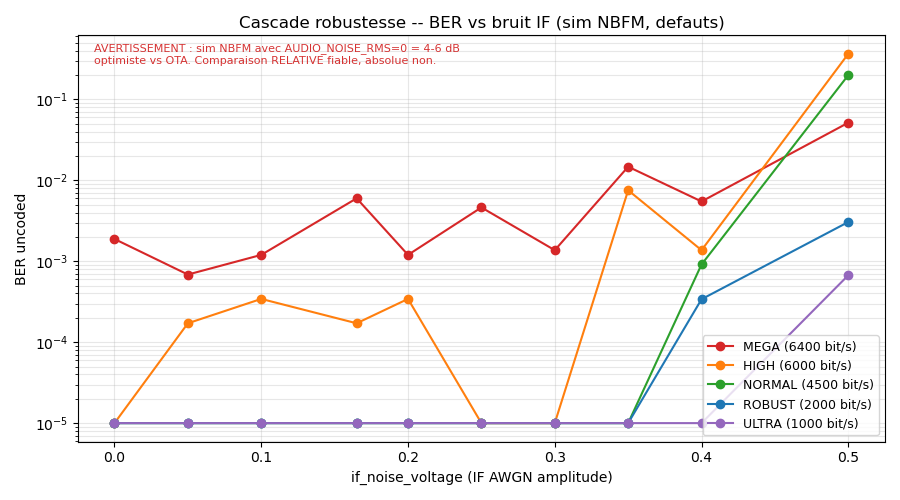
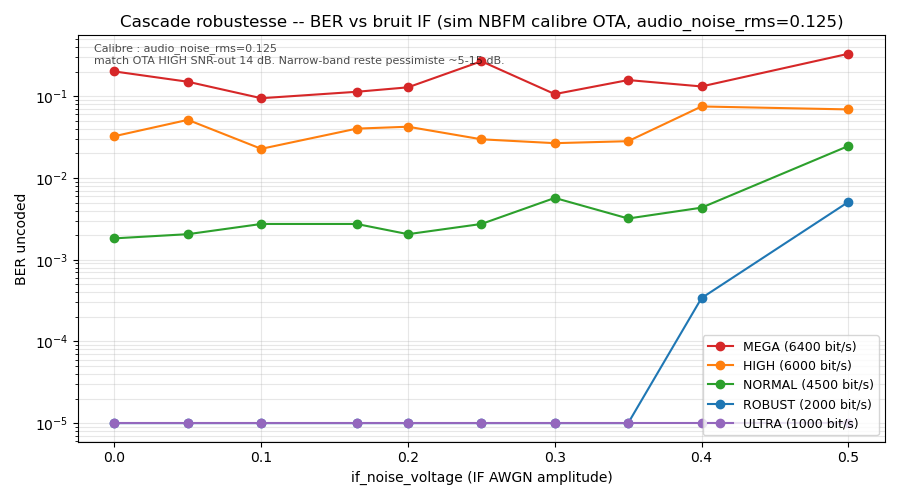
Sim calibre OTA + etude multipath IF-level
Calibration simulateur
----------------------
audio_noise_rms=0.125 match OTA HIGH SNR-out 14 dB (mesure sur
result2_cascade_ota.wav, cette nuit). Le sim etait optimiste de ~8 dB
pour wideband (Rs=1500) avec defaut 0.0. Cette calibration reproduit
le SNR effectif vu en FSE sortie pour les profils wideband.

Limite : reste pessimiste de 5-15 dB pour narrow-band (ROBUST, ULTRA)
car le bruit NBFM reel n'est pas flat en frequence (parabolique f2 ou
autre) alors que audio_noise_rms flat. Acceptable : les narrow-band sim
sont cote sur (si sim dit OK, OTA confirmera).

apsk16_cascade_comparison.py utilise maintenant audio_noise_rms=0.125
par defaut. Resultats calibres montrent la realite : HIGH BER 3 % sans
bruit IF (limit LDPC 1/2), NORMAL 0.2 %, ROBUST/ULTRA 0 %.

Multipath IF-level
------------------
Ajout dans nbfm_channel_sim.simulate() d'un parametre multipath_paths
= liste de (delay_s, amp_dB, phase_rad). Injection AU NIVEAU IF
(apres nbfm_tx, avant nbfm_rx) via gnuradio blocks.delay +
multiply_const_cc + add_cc. Modelise correctement :
 - ISI lineaire RF
 - Rotation de phase statique
 - Effet de capture FM non-lineaire (si echos niveaux voisins)

study/apsk16_multipath_study.py : etude comparative 5 profils vs
6 scenarios multipath (no_echo, faint_far -10 dB 500 us, moderate
-6 dB 200 us, strong_near -3 dB 100 us, capture_hostile -1 dB 200 us,
dual_echo 2 echos).

Resultats (sim calibre, audio_noise_rms=0.125) :
[…]

diff --git a/study/apsk16_multipath_study.py b/study/apsk16_multipath_study.py
@@ -1,0 +1,171 @@
+"""
+Etude multipath : effet de la reception indirecte (echos RF) sur les 5
+profils cascade (MEGA/HIGH/NORMAL/ROBUST/ULTRA).
+
+Multipath injecte AU NIVEAU IF dans nbfm_channel_sim (apres nbfm_tx, avant
+nbfm_rx) -> modele la vraie physique RF (pas audio-domain). Les effets
+incluent : ISI lineaire, rotation de phase statique ET effet de capture
+FM non-lineaire (bascule demod FM si echos de niveaux voisins).
+
+Scenarios testes (par ordre croissant de severite) :
+ - no_echo : reference
+ - faint_far : delay 500 us, -10 dB  (reflection lointaine faible)
+ - moderate  : delay 200 us, -6 dB   (reflection batiment proche)
+ - strong_near : delay 100 us, -3 dB (reflection tres proche)
+ - capture_hostile : delay 200 us, -1 dB (co-canal / effet capture limite)
+
+Simulation calibree OTA (audio_noise_rms=0.125).
+
+Usage : /c/Users/tous/radioconda/python.exe study/apsk16_multipath_study.py
+"""
+
+import os
+import sys
+import json
+import numpy as np
+import matplotlib
+matplotlib.use("Agg")
+import matplotlib.pyplot as plt
+
+sys.path.insert(0, os.path.dirname(os.path.abspath(__file__)))
+from modem_apsk16_ftn_bench import (
+    MOD_QPSK, MOD_8PSK, MOD_16APSK,
+    build_tx, run_full_chain,
+)
+
+
+CALIBRATED_AUDIO_NOISE_RMS = 0.125
+
+PROFILES = [
+    dict(name="MEGA",   rs=1500.0, beta=0.20, tau=30/32, mod=MOD_16APSK,
+         debit=6400, color="#d62728"),
+    dict(name="HIGH",   rs=1500.0, beta=0.20, tau=1.0,   mod=MOD_16APSK,
+         debit=6000, color="#ff7f0e"),
+    dict(name="NORMAL", rs=1500.0, beta=0.20, tau=1.0,   mod=MOD_8PSK,
+         debit=4500, color="#2ca02c"),
+    dict(name="ROBUST", rs=1000.0, beta=0.25, tau=1.0,   mod=MOD_QPSK,
+         debit=2000, color="#1f77b4"),
+    dict(name="ULTRA",  rs=500.0,  beta=0.25, tau=1.0,   mod=MOD_QPSK,
+         debit=1000, color="#9467bd"),
+]
+
+# Chaque scenario : (nom, liste de paths)
+# path = (delay_s, amp_dB, phase_rad). Phase au choix (arbitraire).
+SCENARIOS = [
+    ("no_echo",          [(0.0, 0.0, 0.0)]),
+    ("faint_far",        [(0.0, 0.0, 0.0), (500e-6, -10.0, 1.2)]),
+    ("moderate",         [(0.0, 0.0, 0.0), (200e-6, -6.0,  2.3)]),
+    ("strong_near",      [(0.0, 0.0, 0.0), (100e-6, -3.0,  0.7)]),
+    ("capture_hostile",  [(0.0, 0.0, 0.0), (200e-6, -1.0,  1.7)]),
+    ("dual_echo",        [(0.0, 0.0, 0.0),
+                          (150e-6, -6.0, 0.5),
+                          (400e-6, -9.0, 2.1)]),
+]
+
+N_DATA_SYMBOLS = 1500
+RNG_BASE = 3000
+OUT_DIR = os.path.join(os.path.dirname(os.path.abspath(__file__)),
+                       "..", "results", "apsk16_ftn", "multipath")
+os.makedirs(OUT_DIR, exist_ok=True)
+
+
+def main():
+    csv_path = os.path.join(OUT_DIR, "multipath.csv")
+    with open(csv_path, "w", encoding="utf-8") as f:
+        f.write("profile,scenario,rs,beta,tau,mod,ber,gmi,gmi_max,evm,snr_db\n")
+
+    results = {}
+    for prof in PROFILES:
+        print(f"\n=== Profil {prof['name']} ===")
+        prof_res = []
+        for scen_name, paths in SCENARIOS:
+            mod = prof["mod"]()
+            rng = np.random.default_rng(RNG_BASE + hash(scen_name) % 1000)
+            tx = build_tx(prof["rs"], prof["beta"], prof["tau"], mod,
+                          n_data_symbols=N_DATA_SYMBOLS, rng=rng)
+            try:
+                r = run_full_chain(tx, mod, if_noise_voltage=0.0,
+                                   rng_seed=42,
+                                   channel_kwargs={
+                                       "start_delay_s": 0.0,
+                                       "audio_noise_rms": CALIBRATED_AUDIO_NOISE_RMS,
+                                       "multipath_paths": paths,
+                                   })
+                ber = r["ber_uncoded"] or 0.0
+                gmi = r["gmi"] if r["gmi"] is not None else float("nan")
+                evm = r["evm_rms"] or 0.0
+                sigma2 = r["sigma2"]
+                snr = 10.0 * np.log10(1.0 / sigma2) if sigma2 > 0 else float("inf")
+                prof_res.append(dict(scenario=scen_name, ber=ber, gmi=gmi,
+                                     evm=evm, snr_db=snr,
+                                     gmi_max=mod.bits_per_sym))
+                print(f"  {scen_name:>17}: BER={ber:.4f} "
+                      f"GMI={gmi:.3f}/{mod.bits_per_sym} "
+                      f"SNR={snr:.2f} dB")
+                with open(csv_path, "a", encoding="utf-8") as f:
+                    f.write(f"{prof['name']},{scen_name},{prof['rs']},"
+                            f"{prof['beta']},{prof['tau']:.4f},{mod.name},"
+                            f"{ber:.6f},{gmi:.4f},{mod.bits_per_sym},"
+                            f"{evm:.4f},{snr:.3f}\n")
+            except Exception as e:
+                print(f"  {scen_name}: FAILED {e}")
+        results[prof["name"]] = (prof, prof_res)
+
+    # Plot : BER par scenario, groupe par profil (bar chart)
+    scen_names = [s[0] for s in SCENARIOS]
+    fig, ax = plt.subplots(figsize=(12, 5))
+    n_scen = len(scen_names)
+    n_prof = len(PROFILES)
+    width = 0.8 / n_prof
+    for i, prof in enumerate(PROFILES):
+        if prof["name"] not in results:
+            continue
+        _, prof_res = results[prof["name"]]
+        bers = [next((r["ber"] for r in prof_res if r["scenario"] == s), 0.5)
+                for s in scen_names]
+        x = np.arange(n_scen) + (i - n_prof / 2) * width
+        ax.bar(x, bers, width, label=prof["name"], color=prof["color"])
+    ax.set_xticks(np.arange(n_scen))
+    ax.set_xticklabels(scen_names, rotation=15)
+    ax.set_ylabel("BER uncoded")
+    ax.set_title("Multipath impact par profil (sim calibre OTA, IF-level)")
+    ax.set_yscale("log")
+    ax.axhline(1e-2, ls="--", color="gray", alpha=0.5,
+               label="seuil LDPC rate 3/4 (~1%)")
+    ax.axhline(1e-1, ls="--", color="red", alpha=0.5,
+               label="seuil LDPC rate 1/2 (~10%)")
+    ax.grid(True, which="both", alpha=0.3)
+    ax.legend(fontsize=8, loc="upper left", ncol=2)
+    plt.tight_layout()
+    plt.savefig(os.path.join(OUT_DIR, "multipath_ber.png"), dpi=100)
+    plt.close(fig)
+
+    # Plot GMI normalisee
+    fig, ax = plt.subplots(figsize=(12, 5))
+    for i, prof in enumerate(PROFILES):
+        if prof["name"] not in results:
+            continue
+        _, prof_res = results[prof["name"]]
+        gmis_norm = [next((r["gmi"] / r["gmi_max"] for r in prof_res
+                           if r["scenario"] == s), 0) for s in scen_names]
+        x = np.arange(n_scen) + (i - n_prof / 2) * width
+        ax.bar(x, gmis_norm, width, label=prof["name"], color=prof["color"])
+    ax.set_xticks(np.arange(n_scen))
+    ax.set_xticklabels(scen_names, rotation=15)
+    ax.set_ylabel("GMI / bits_per_sym")
+    ax.set_ylim(-0.1, 1.1)
+    ax.set_title("GMI normalisee par profil")
+    ax.axhline(0.5, ls="--", color="gray", alpha=0.5,
+               label="seuil LDPC rate 1/2")
+    ax.grid(True, alpha=0.3)
+    ax.legend(fontsize=8, loc="lower left", ncol=2)
+    plt.tight_layout()
+    plt.savefig(os.path.join(OUT_DIR, "multipath_gmi.png"), dpi=100)
+    plt.close(fig)
+
+    print(f"\nDone. Resultats dans {OUT_DIR}")
+    print("  - multipath.csv, multipath_ber.png, multipath_gmi.png")
+
+
+if __name__ == "__main__":
+    main()

diff --git a/study/nbfm_channel_sim.py b/study/nbfm_channel_sim.py
@@ -22,6 +22,7 @@ Usage :
 """
 
 import argparse
+import math
 import os
 import numpy as np
 import wave
@@ -114,6 +115,7 @@ def simulate(audio_in, if_noise_voltage=0.0, sub_audio_hpf=SUB_AUDIO_HPF,
              thermal_period_s=DRIFT_THERMAL_PERIOD_S,
              tx_hard_clip=TX_HARD_CLIP,
              audio_noise_rms=AUDIO_NOISE_RMS,
+             multipath_paths=None,
              start_delay_s=None, rng_seed=None, verbose=True):
     """Fait passer audio_in par TX -> bruit IF -> RX, retourne audio_out.
 
@@ -167,6 +169,24 @@ def simulate(audio_in, if_noise_voltage=0.0, sub_audio_hpf=SUB_AUDIO_HPF,
                                       float(if_noise_voltage), 0)
     adder = blocks.add_cc()
 
+    # Multipath IF-level : modelise la reception indirecte (echos de trajets
+    # reflechis). Applique au signal complexe IF apres nbfm_tx.
+    # multipath_paths : liste de (delay_s, amplitude_dB, phase_rad).
+    # Premier element = trajet direct (typ. delay=0, amp=0dB, phase=0).
+    # Autres elements = echos.
+    mp_summer = None
+    mp_delays = []
+    mp_gains = []
+    if multipath_paths and len(multipath_paths) >= 2:
+        mp_summer = blocks.add_cc()
+        for delay_s, amp_dB, phase_rad in multipath_paths:
+            n_delay = int(round(delay_s * IF_RATE))
+            # Complex gain = amp_linear * exp(j*phase)
+            amp_lin = 10.0 ** (amp_dB / 20.0)
+            complex_gain = amp_lin * (math.cos(phase_rad) + 1j * math.sin(phase_rad))
+            mp_delays.append(blocks.delay(gr.sizeof_gr_complex, n_delay))
+            mp_gains.append(blocks.multiply_const_cc(complex(complex_gain)))
+
     # Post-demod audio LPF pour emuler le filtre audio du RX reel
     use_post_lpf = post_lpf and post_lpf > 0
     if use_post_lpf:
@@ -184,7 +204,14 @@ def simulate(audio_in, if_noise_voltage=0.0, sub_audio_hpf=SUB_AUDIO_HPF,
         tb.connect(src, hpf, nbfm_tx)
     else:
         tb.connect(src, nbfm_tx)
-    tb.connect(nbfm_tx, (adder, 0))
+
+    if mp_summer is not None:
+        # nbfm_tx -> N branches (delay + gain complexe) -> mp_summer -> adder
+        for i, (delay_blk, gain_blk) in enumerate(zip(mp_delays, mp_gains)):
+            tb.connect(nbfm_tx, delay_blk, gain_blk, (mp_summer, i))
+        tb.connect(mp_summer, (adder, 0))
+    else:
+        tb.connect(nbfm_tx, (adder, 0))
     tb.connect(noise_src, (adder, 1))
     if use_post_lpf:
         tb.connect(adder, nbfm_rx, post_lpf_blk, mul, sink)

diff --git a/study/apsk16_cascade_comparison.py b/study/apsk16_cascade_comparison.py
@@ -44,6 +44,11 @@ PROFILES = [
 IF_NOISE_LEVELS = [0.0, 0.05, 0.1, 0.165, 0.2, 0.25, 0.3, 0.35, 0.4, 0.5]
 N_DATA_SYMBOLS = 1500
 RNG_BASE = 2000
+# Calibration audio_noise_rms=0.125 -> match OTA HIGH SNR-out 14 dB
+# (sim etait 4-6 dB optimiste avec AUDIO_NOISE_RMS=0 par defaut).
+# Narrow-band reste pessimiste ~5-15 dB (bruit reel non-flat en frequence)
+# mais wideband (Rs=1500) calibre dans 0.5 dB.
+CALIBRATED_AUDIO_NOISE_RMS = 0.125
 
 OUT_DIR = os.path.join(os.path.dirname(os.path.abspath(__file__)),
                        "..", "results", "apsk16_ftn", "cascade")
@@ -69,7 +74,8 @@ def run_profile(profile, if_noise, seed):
     tx = build_tx(profile["rs"], profile["beta"], profile["tau"],
                   mod, n_data_symbols=N_DATA_SYMBOLS, rng=rng)
     r = run_full_chain(tx, mod, if_noise_voltage=if_noise, rng_seed=seed,
-                       channel_kwargs={"start_delay_s": 0.0})
+                       channel_kwargs={"start_delay_s": 0.0,
+                                       "audio_noise_rms": CALIBRATED_AUDIO_NOISE_RMS})
     outputs = r["fse_out"]["outputs"]
     mask = r["fse_out"]["training_mask"]
     refs = np.zeros_like(outputs)
@@ -127,14 +133,14 @@ def main():
                     color=prof["color"])
     ax.set_xlabel("if_noise_voltage (IF AWGN amplitude)")
     ax.set_ylabel("BER uncoded")
-    ax.set_title("Cascade robustesse -- BER vs bruit IF (sim NBFM, defauts)")
+    ax.set_title(f"Cascade robustesse -- BER vs bruit IF "
+                 f"(sim NBFM calibre OTA, audio_noise_rms={CALIBRATED_AUDIO_NOISE_RMS})")
     ax.grid(True, which="both", alpha=0.3)
     ax.legend(fontsize=9, loc="lower right")
     ax.text(0.02, 0.98,
-            "AVERTISSEMENT : sim NBFM avec AUDIO_NOISE_RMS=0 = 4-6 dB\n"
-            "optimiste vs OTA. Comparaison RELATIVE fiable, absolue non.",
-            transform=ax.transAxes, va="top", fontsize=8,
-            color="#c00", alpha=0.8)
+            f"Calibre : audio_noise_rms={CALIBRATED_AUDIO_NOISE_RMS}\n"
+            f"match OTA HIGH SNR-out 14 dB. Narrow-band reste pessimiste ~5-15 dB.",
+            transform=ax.transAxes, va="top", fontsize=8, alpha=0.7)
     plt.tight_layout()
     plt.savefig(os.path.join(OUT_DIR, "ber_vs_noise.png"), dpi=100)
     plt.close(fig)
